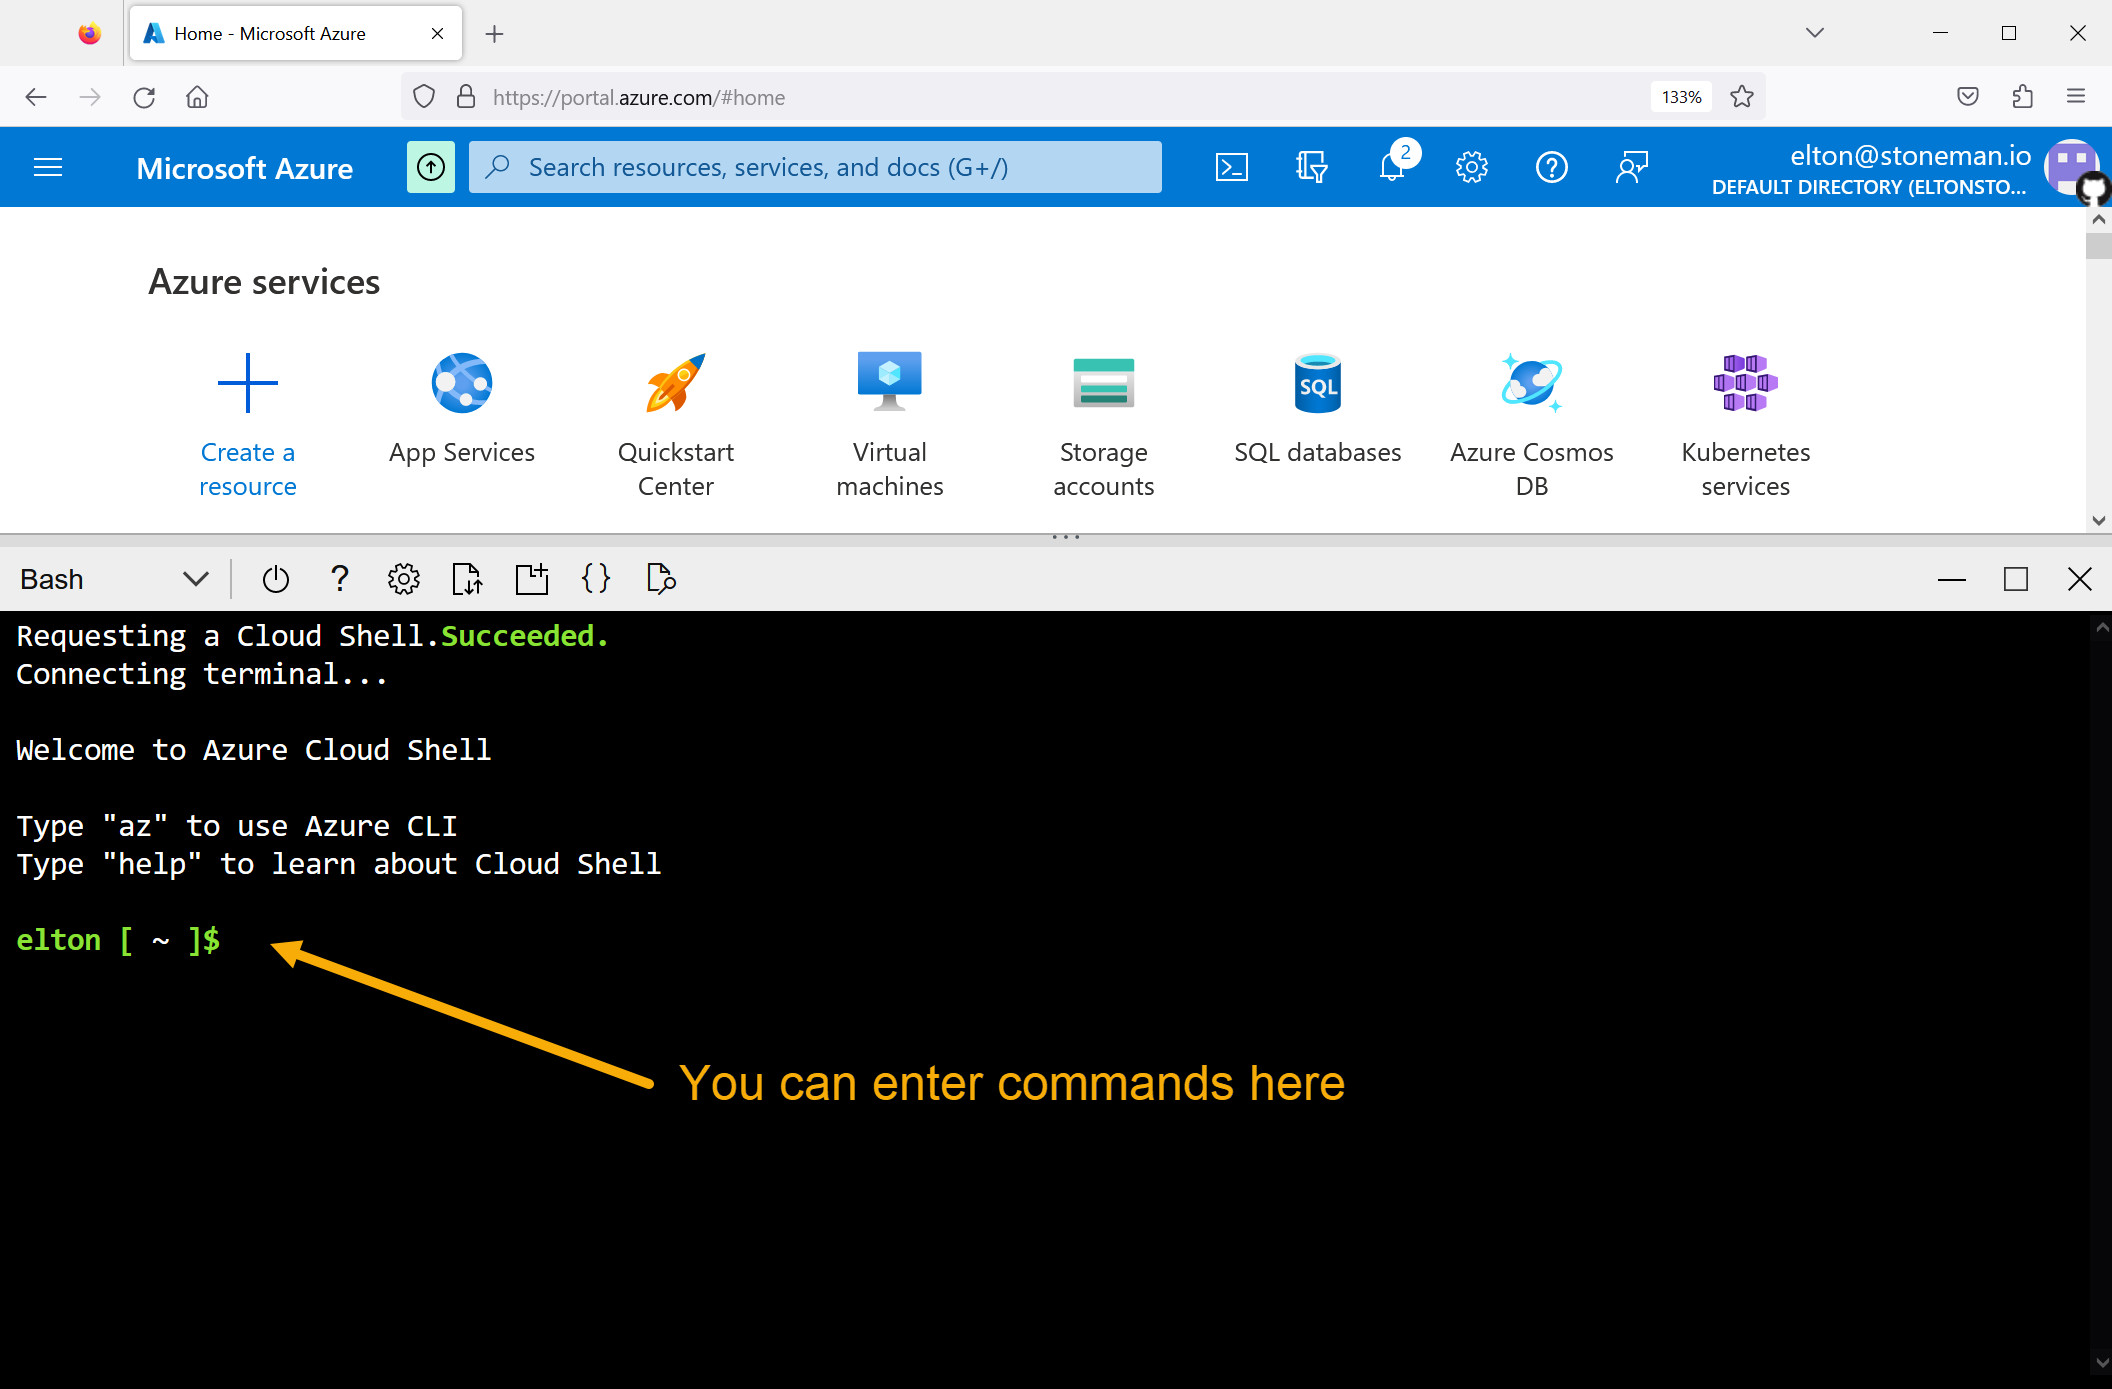
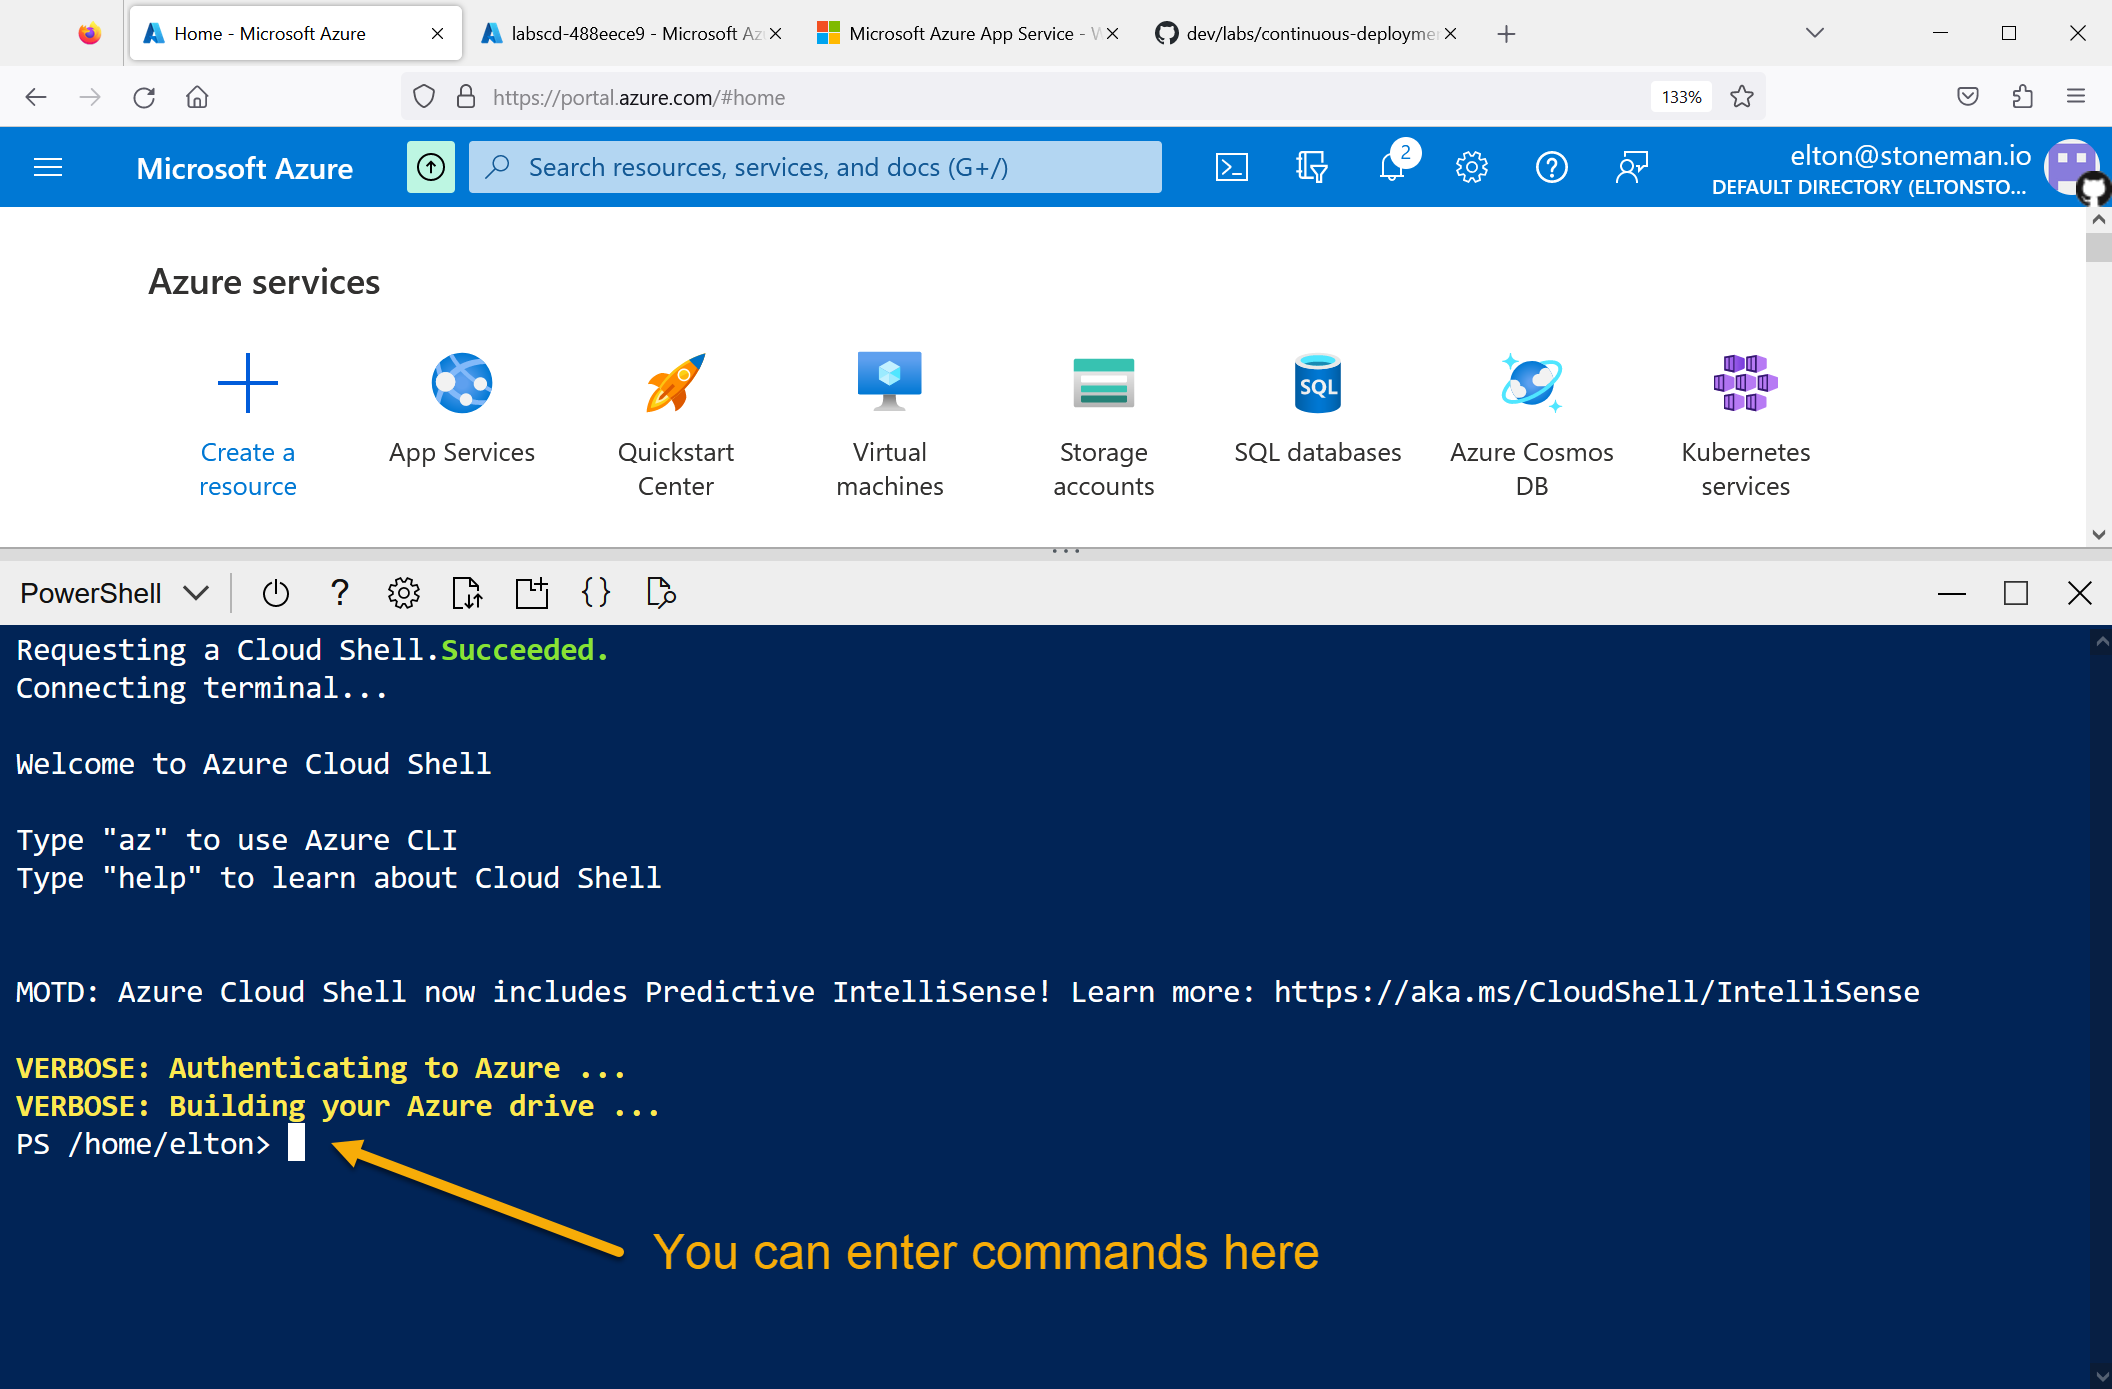
CD lab docs

diff --git a/labs/continuous-deployment/README.md b/labs/continuous-deployment/README.md
@@ -88,59 +88,53 @@ You can use the terminal in Azure to create a cloud service which will run the w
 
 ## Create the Azure resources
 
-Copy and paste this into the cloud shell window:
+The cloud shell has Git installed so we can clone the class repo:
 
 ```
-az group create -n labs-cd -l eastus
-
-az appservice plan create -g labs-cd -n app-plan-01 --is-linux --sku S1 --number-of-workers 2
+git clone https://github.com/courselabs/dev
 ```
 
-This creates a service to host a web application; it will take a while.
+There are several commands we need to run. Instead of copying and pasting them one at a time, I've created a _script_ file which contains all the commands. It uses the Azure command line tool (called `az`) - if you're interested, you can find it here:
 
-Now create the web application - you'll be asked to give it a name, which will become the URL so it needs to be unique - something like `labs-cd-` plus your initials.
+- [setup.ps1](/labs/continuous-deployment/setup.ps1) - the PowerShell script to set up the web app service
 
-```
-# make sure you use an app name of your own
-az webapp create -g labs-cd --plan app-plan-01 --runtime dotnetcore:6.0 -n your-own-unique-app-name
-```
+Now run the script to create the cloud service.
 
-> If you choose a name which has been taken by someone else in the world, you'll see an error message. Just try the command again with a different name.
-
-When the app service is created you can link your GitHub repo to the web application. There are a couple more commands to do that. 
-
-First this will tell the app service where to find the project source code (like when we run `cd` commands locally):
+**The script will ask you for your GitHub username - just enter the username you used when you created your GitHub account, e.g. I would type `sixeyed`**
 
 ```
-az webapp config appsettings set --settings PROJECT='labs/continuous-deployment/src/HelloWorldWeb/HelloWorldWeb.csproj' -g labs-cd -n your-own-unique-app-name
+./dev/labs/continuous-deployment/setup.ps1
 ```
 
-And now this will link the app to the GitHub repo for the class. Make sure you use your own app name, and the URL to your own GitHub fork - so you can push changes later and see the deployment working:
-
-```
-az webapp deployment source config -g labs-appservice-cicd --manual-integration --branch main -n <app-name> --repo-url <github-fork-url>.git
-```
-
-_az webapp deployment source config -g labs-cd --manual-integration --branch main -n labs-cd-es --repo-url https://github.com/sixeyed/dev.git_
+> This script does quite a few things and it will take a while. If you see warning messages about something called Blowfish, you can ignore them :)
 
 
-The build will take a while. This is a different approch where the cloud service takes the source code and it knows how to build and deploy it. You don't need to manage a workflow in this case.
+The last step of the script does the deployment. This is a different approach to GitHub actions, where you have to write your own workflow file. Here the cloud service takes the source code, it knows that it's a .NET app and it knows how to build and deploy it. You don't need to manage the pipeline.
 
-> You can always find your cloud service again from this link: [Azure App Services](https://portal.azure.com/#view/HubsExtension/BrowseResource/resourceType/Microsoft.Web%2Fsites)
+While the build is happening you can browse to your app service here: [Azure App Services](https://portal.azure.com/#view/HubsExtension/BrowseResource/resourceType/Microsoft.Web%2Fsites).
 
-Open your App Service in the Overview section there's a default domain which shows your web app name: 
+Cick your App Service name to open the details page. In the left navigation click the _Deployment Center_ link:
 
-![](app-service)
+- this shows you that your service is linked to your GitHub repo
+- click _Logs_ and you'll see the history of the deployments
+- the status field may say _Pending_ or _Running_
+- when the deployment completes the status will be _Success (Active)_:
 
-That's a link - when you click it, you'll open your web application, running in the cloud :)
+![](/img/continuous-deployment/deployment-success.png)
+
+Click back to the _Overview_ section on the left, and in the right hand side you'll see _Default domain_ with a link that looks something like `labscd-488eece9.azurewebsites.net` (yours will be similar but not the same).
+
+Click that link and you'll see your web app running in the cloud. This is the same app you ran on your laptop, but now it has a public URL anyone can access, and it can handle thousands of users:
+
+![](/img/continuous-deployment/web-azure.png)
 
 ## Lab
 
-How was that? Lots of new things here - the cloud services, the command line tool to work with the cloud services, and the whole continuous deployment. It's not really continuous though... Make a change to the web page at:
+How was that? Lots of new things here - the cloud services, the command line script to create the service, and the whole continuous deployment. It's not really continuous though, the script sets it up for manual deployment. Try making a change to the web page source code:
 
 - [labs/continuous-deployment/src/HelloWorldWeb/Pages/Index.cshtml](labs/continuous-deployment/src/HelloWorldWeb/Pages/Index.cshtml)
 
-Any change will do. Then push your changes to your fork:
+Any change will do, but something in the HTML that you will notice in the browser. Then push your changes to your fork:
 
 ```
 git add --all
@@ -150,4 +144,4 @@ git commit -m 'Updated CD lab web app'
 git push fork main
 ```
 
-You'll need to manually start a new deployment from the Azure Portal. Can you trigger that and see your changes get deployed to the live site?
+Pushing your changes doesn't trigger a deployment in Azure. You'll need to manually start a new deployment from the Azure Portal to sync your changes. Can you trigger that and see your changes get deployed to the live site?
